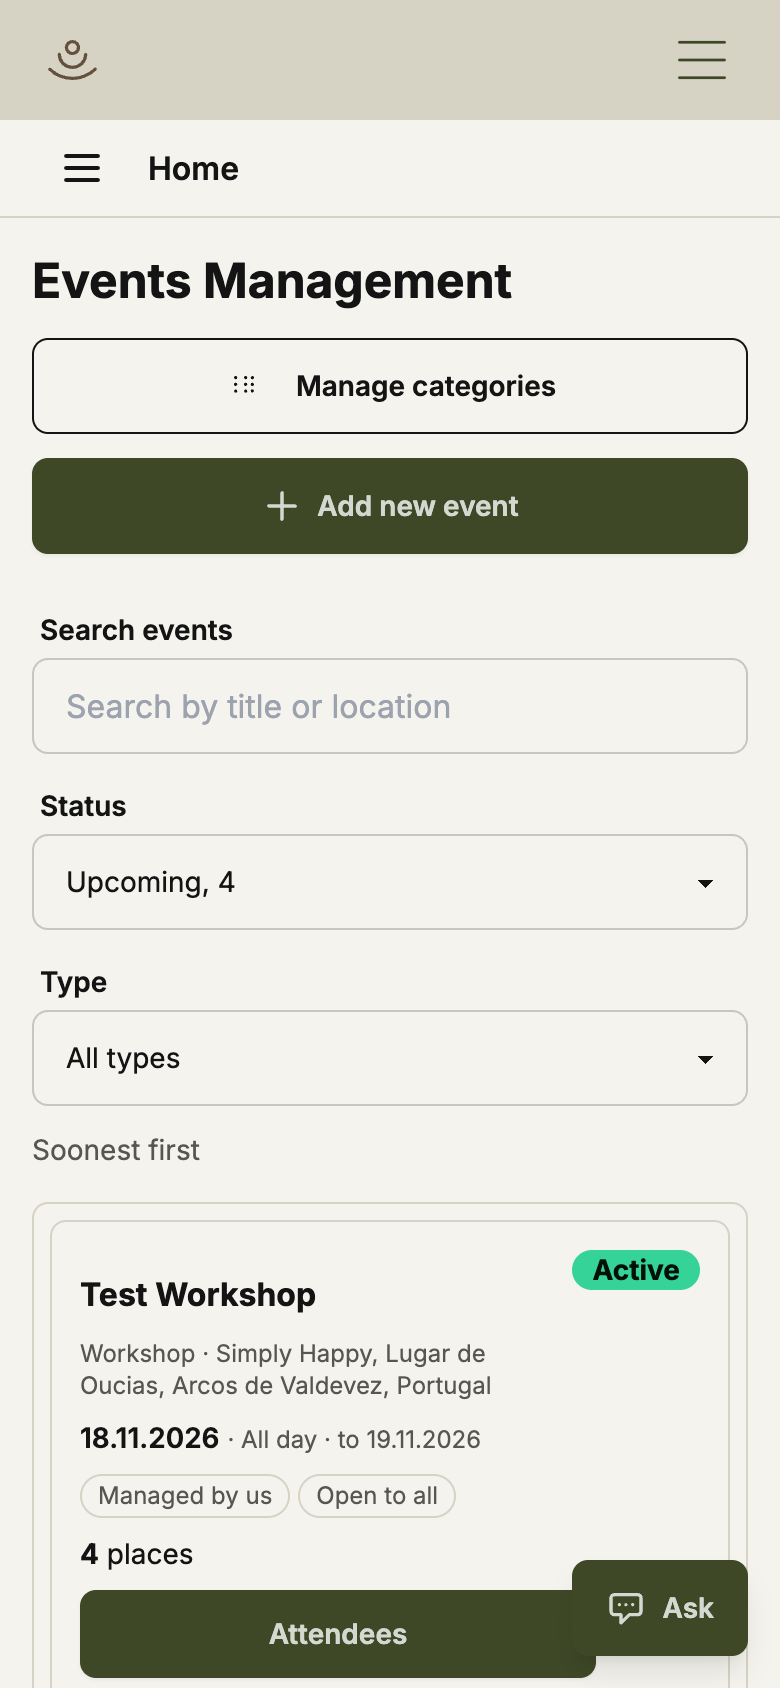
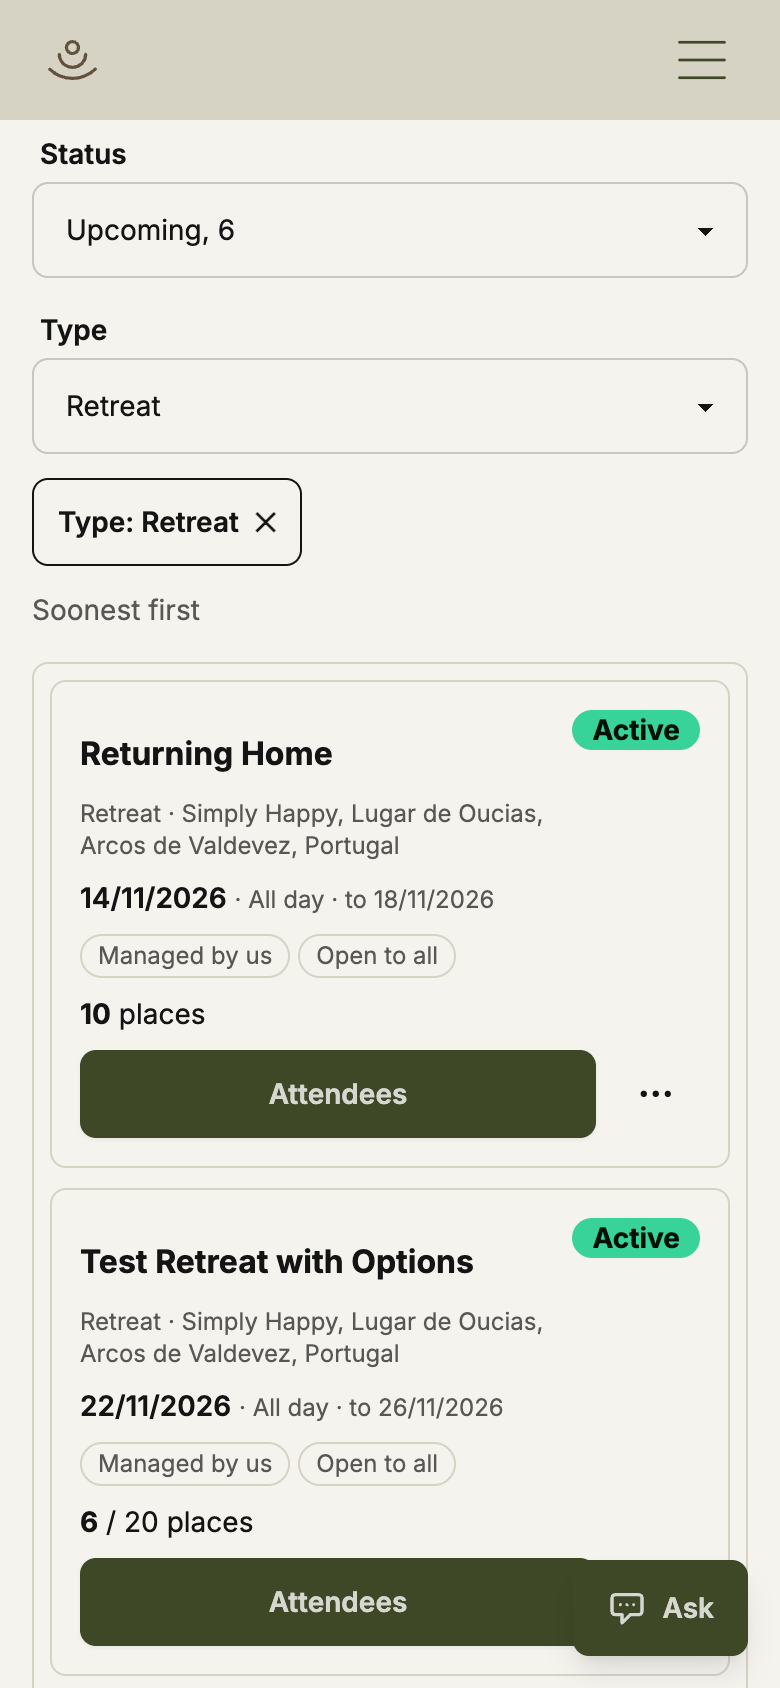
fix(content): recapture the admin screenshots from the develop preview
The five admin captures dated from 19 Oct and showed an older back office
with empty lists. They are recaptured from develop.simply-happy-web.pages.dev
against current seed data: reservations (tabs with counts, booking rules
open), events (filtered to upcoming retreats), supplies (low-stock and
below-zero flags), the booking calendar with the assistant answering a
how-to question, and events at phone width (390x844 @2x).

Desktop captures lay out at 1152x720 like before but are now 2214x1384
(1.92x) rather than 2880x1800; width/height in the content modules follow
the files. Frames avoid guest emails and QA-only rows; the review-period
"Give feedback" button is hidden. Alt text and the assistant caption now
describe what each shot shows.

diff --git a/src/content/work/simply-happy.ts b/src/content/work/simply-happy.ts
@@ -191,26 +191,26 @@ export const simplyHappy = {
   screenshots: [
     {
       src: "/work/simply-happy/admin-reservations.png",
-      width: 2880,
-      height: 1800,
-      alt: "Admin reservations page with the booking rules panel: auto-confirm toggle and guest cancellation window",
+      width: 2214,
+      height: 1384,
+      alt: "Admin reservations page with Simply Happy and organiser tabs above the booking rules panel: auto-confirm toggle and guest cancellation window",
       caption: "Test data. Rules for bookings paid on the site: auto-confirm and the cancellation window",
       section: "owned",
       sizes: "(min-width: 90em) 1120px, (min-width: 80em) 896px, (min-width: 64em) 736px, 100vw",
     },
     {
       src: "/work/simply-happy/admin-events.png",
-      width: 2880,
-      height: 1800,
-      alt: "Admin events list with status, places and attendee actions per event",
+      width: 2214,
+      height: 1384,
+      alt: "Admin events list filtered to upcoming retreats, with status, places and attendee actions per event",
       caption: "Test data. Admin events management, redesigned list",
       section: "owned",
       sizes: "(min-width: 90em) 556px, (min-width: 80em) 444px, (min-width: 64em) 736px, (min-width: 48em) 46vw, 100vw",
     },
     {
       src: "/work/simply-happy/admin-supplies.png",
-      width: 2880,
-      height: 1800,
+      width: 2214,
+      height: 1384,
       alt: "Admin supplies list with stock on hand, low-stock flags, reorder points and record-delivery actions",
       caption: "Test data. Supplies: stock on hand, reorder points and deliveries",
       section: "owned",
@@ -246,10 +246,10 @@ export const simplyHappy = {
     },
     {
       src: "/work/simply-happy/admin-calendar-assistant.png",
-      width: 2880,
-      height: 1800,
-      alt: "The admin booking calendar by room with the read-only Ask panel open and its note that nothing is saved",
-      caption: "Test data. Admin booking calendar with the assistant panel open",
+      width: 2214,
+      height: 1384,
+      alt: "The admin booking calendar by room with the read-only Ask panel answering how to block a room, above its note that nothing is saved",
+      caption: "Test data. The assistant answering a how-to question beside the booking calendar",
       section: "assistant",
       sizes: "(min-width: 90em) 1120px, (min-width: 80em) 896px, (min-width: 64em) 736px, 100vw",
     },

diff --git a/src/content/site.ts b/src/content/site.ts
@@ -93,10 +93,10 @@ export const supportingWork = {
       linkLabel: "Read the safety design",
       image: {
         src: "/work/simply-happy/admin-calendar-assistant.png",
-        width: 2880,
-        height: 1800,
-        alt: "The admin booking calendar by room with the read-only Ask panel open and its note that nothing is saved",
-        caption: "Test data. Admin booking calendar with the assistant panel open",
+        width: 2214,
+        height: 1384,
+        alt: "The admin booking calendar by room with the read-only Ask panel answering how to block a room, above its note that nothing is saved",
+        caption: "Test data. The assistant answering a how-to question beside the booking calendar",
       },
       title: "Admin AI assistant",
       body: "A read-only help panel for the back office. Seven fixed lookups beat free-form SQL because wrong joins look right. No chats are stored.",
